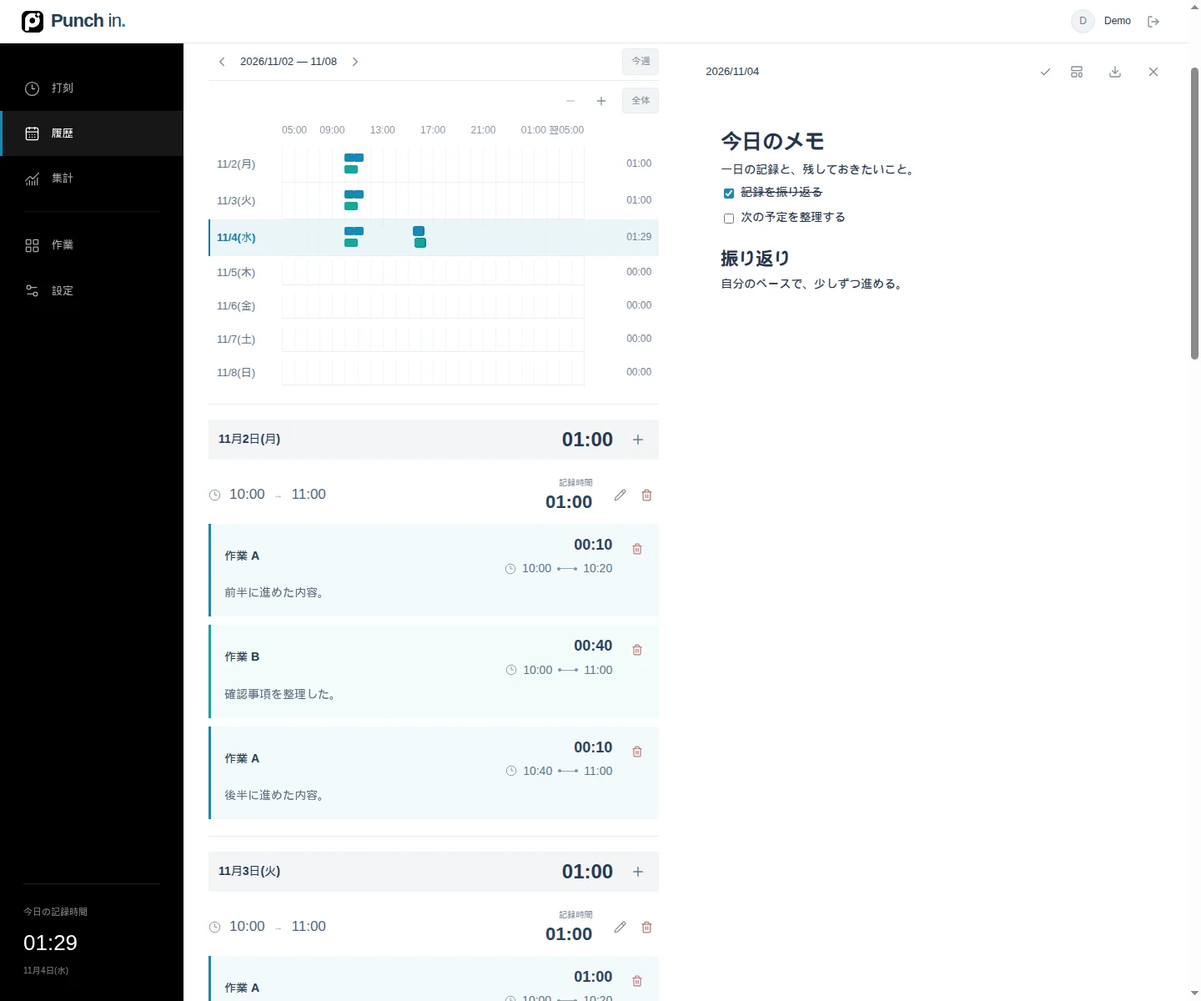
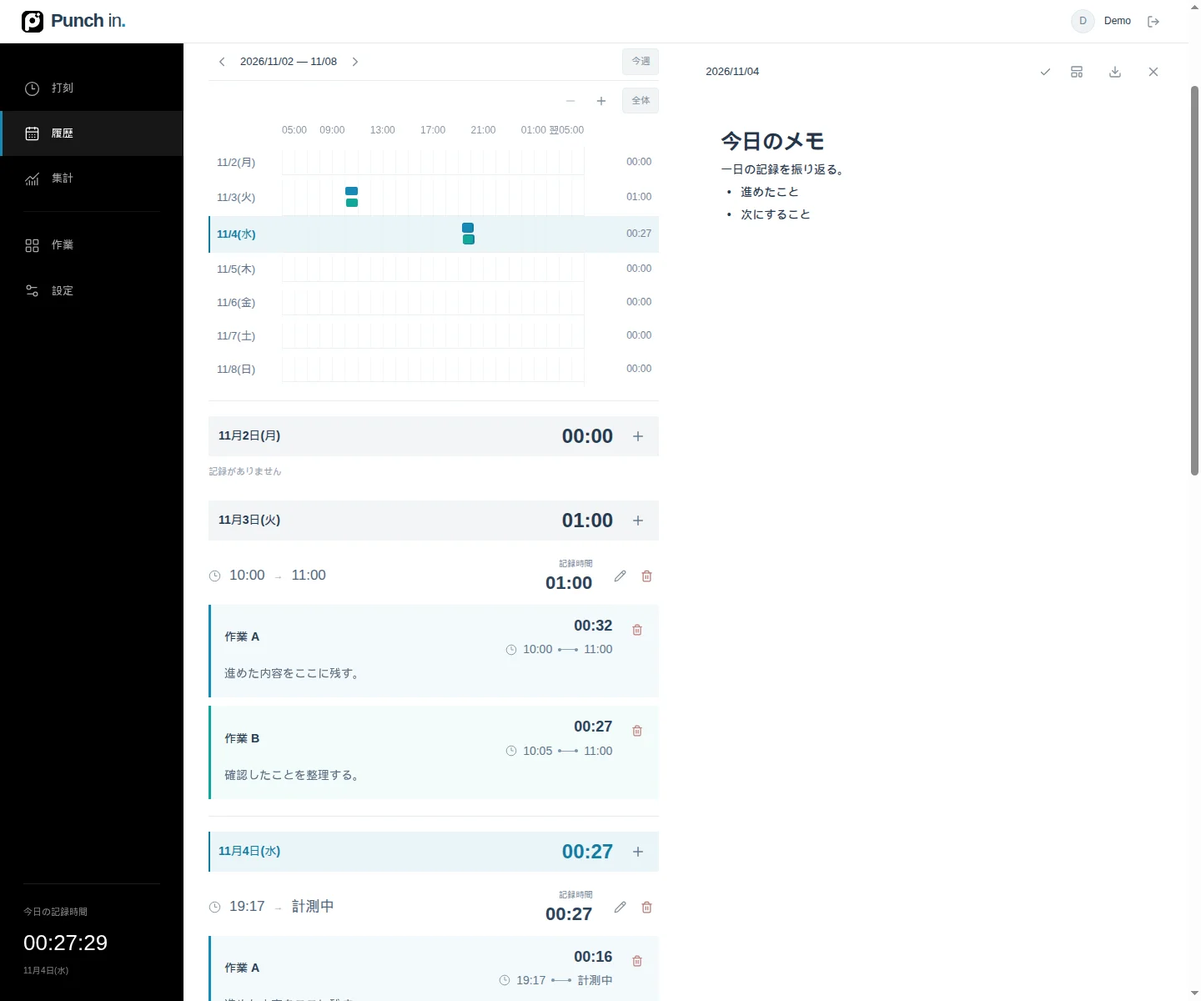
feat: 打刻画面とサイドバーに秒表示を復元

diff --git a/app/punch-app.tsx b/app/punch-app.tsx
@@ -4,7 +4,7 @@ import DurationValue from './components/time/duration-value';
 import { lazy, Suspense, useCallback, useEffect, useMemo, useRef, useState, type CSSProperties, type FormEvent, type ReactNode } from "react";
 import { Palette, Clock3, CalendarDays, ChartNoAxesCombined, Settings2, LayoutGrid, ChevronLeft, ChevronRight, ChevronUp, ChevronDown, Plus, Pencil, X, Menu, LogOut, Play, Square, Search, Download, Upload, Eye, EyeOff, Trash2, Check, LoaderCircle, Bell, ArrowRight, RefreshCw } from "lucide-react";
 import type { AppState, Backup, Category, PendingPunch, Preferences, PunchDelta, Session } from "../lib/model";
-import { businessDay, clock, contrastText, dayStartLabel, duration, fromTimeInput, hm, minuteIso, hoursMinutes, periodRange, readableDate, readableColor, shiftDay, shiftPeriod, minuteInput, wallParts, type Period } from "../lib/time";
+import { businessDay, clock, contrastText, dayStartLabel, duration, fromTimeInput, hms, hm, minuteIso, hoursMinutes, periodRange, readableDate, readableColor, shiftDay, shiftPeriod, minuteInput, wallParts, type Period } from "../lib/time";
 
 import {memberKey,currentMember,entryAllocations,categoryAllocations,members,includesCategory,allocations,creditedTime,memberRange,memoKey,readMemo,setMemo} from "../lib/work";
 import ParallelControls from "./components/records/parallel-controls";
@@ -214,19 +214,19 @@ export default function PunchApp({initial,displayName,draftScope}:{initial:AppSt
   const theme=view==="settings"?prefs:state.preferences;
   const style={"--accent":theme.accent,"--accent-ink":contrastText(theme.accent),"--accent-link":readableColor(theme.accent),"--sidebar":theme.sidebar,"--sidebar-ink":contrastText(theme.sidebar)} as CSSProperties;
 
-  function recordTable(list:Session[],showIntervals=false){return list.length?<WorkRecords showIntervals={showIntervals} sessions={list} categories={state.categories} now={now} store={memoStore} pending={pending} onEdit={s=>void editSession(s)} onDelete={requestDeleteSession}/>:<Empty/>;}
+  function recordTable(list:Session[],showIntervals=false){return list.length?<WorkRecords seconds={view==="punch"} showIntervals={showIntervals} sessions={list} categories={state.categories} now={now} store={memoStore} pending={pending} onEdit={s=>void editSession(s)} onDelete={requestDeleteSession}/>:<Empty/>;}
   async function exportRecords(){if(!await memoStore.flushAll()){setToast({text:"メモの保存を確認してから書き出してください",error:true});return;}const current=new Map(stateRef.current.sessions.map(s=>[s.id,s]));const rows=history.map(s=>current.get(s.id)??s);saveFile(csv([["日付","作業ID","作業","開始日時","終了日時","作業時間（分）","タイムゾーン","1日の開始","メモ","計測中"],...rows.flatMap(s=>members(s).map(m=>[s.businessDay,m.categoryId,category(m.categoryId)?.name??"",memberRange(s,memberKey(m)).start===null?"":minuteIso(memberRange(s,memberKey(m)).start!),memberRange(s,memberKey(m)).end===null?"":minuteIso(memberRange(s,memberKey(m)).end!),Math.floor((entryAllocations(s,now).get(memberKey(m))??0)/60000),s.timezone,dayStartLabel(s.dayStart),m.memo,m.state!=="finished"?"はい":"いいえ"]))]),`punch-in-records-${historyDay}.csv`,"text/csv;charset=utf-8");}
   function exportStats(){saveFile(csv([["期間開始","期間終了","作業ID","作業","作業時間（分）","時間","計測中を含む"],...state.categories.filter(c=>!statsFilter||c.id===statsFilter).map(c=>{const rows=selected.filter(s=>includesCategory(s,c.id));const t=rows.reduce((v,s)=>v+(allocations(s,now).get(c.id)??0),0);return[period==="all"?"全期間":from,period==="all"?"":to,c.id,c.name,Math.floor(t/60000),hm(t),rows.some(s=>s.endedAt===null)?"はい":"いいえ"]; }),[period==="all"?"全期間":from,period==="all"?"":to,"","作業時間",Math.floor(creditedTotal/60000),hm(creditedTotal),selectedRunning?"はい":"いいえ"]]),"punch-in-summary.csv","text/csv;charset=utf-8");}
   async function loadBackup(file:File){setBackup(null);setPreview(null);if(file.size>16_000_000){setToast({text:"ファイルは16MB以内にしてください",error:true});return;}try{const value=JSON.parse(await file.text()) as Backup;const result=await mutate("importPreview",{backup:value});if(result?.preview){setBackup(value);setPreview(result.preview);}}catch{setToast({text:"JSONファイルを読み込めません",error:true});}}
   return <div className={`app ${noteTarget.open?"notes-open":""}`} style={style}>
     <header className="topbar"><button ref={menuButton} className="mobile-menu icon-button" onClick={()=>menu?closeMenu():setMenu(true)} aria-label="メニュー" aria-controls="app-navigation" aria-expanded={compactNavigation&&menu}><Menu size={22}/></button><button className="brand" aria-label="打刻（ホーム）へ" onClick={()=>{go("punch");window.scrollTo({top:0,behavior:"auto"});}}><span className="brand-mark"><img src="/icons/punch-in-96.png" alt="" width={26} height={26} decoding="async"/></span><span>Punch <b>in</b><span className="brand-period">.</span></span></button><div className="account"><span className="avatar">{displayName.slice(0,1).toUpperCase()}</span><span className="account-name">{displayName}</span><a className="icon-button" href="/signout-with-chatgpt?return_to=%2F" target="_top" aria-label="ログアウト"><LogOut size={16}/></a></div></header>
     {menu&&<button className="sidebar-backdrop" aria-label="メニューを閉じる" onClick={closeMenu}/>}
-    <aside id="app-navigation" ref={sidebarRef} className={`sidebar ${menu?"open":""}`} inert={compactNavigation&&!menu} aria-hidden={compactNavigation&&!menu?true:undefined} role={compactNavigation?"dialog":undefined} aria-modal={compactNavigation&&menu?true:undefined} aria-label="メニュー"><button className="sidebar-close icon-button" onClick={closeMenu} aria-label="メニューを閉じる"><X size={20}/></button><nav>{NAV.map((n,i)=><button key={n.id} onClick={()=>go(n.id)} className={`nav-item ${view===n.id?"active":""} ${i===3?"nav-divider":""}`} aria-current={view===n.id?"page":undefined}><n.icon size={19} strokeWidth={1.6}/><span>{n.label}</span>{view===n.id&&<span className="nav-marker"/>}</button>)}</nav><div className="sidebar-total"><span>今日の記録時間</span><strong><DurationValue value={dailyTotal}/></strong><span className="sidebar-date">{readableDate(today)}</span></div><a className="sidebar-signout" href="/signout-with-chatgpt?return_to=%2F" target="_top"><LogOut size={15}/>ログアウト</a></aside>
+    <aside id="app-navigation" ref={sidebarRef} className={`sidebar ${menu?"open":""}`} inert={compactNavigation&&!menu} aria-hidden={compactNavigation&&!menu?true:undefined} role={compactNavigation?"dialog":undefined} aria-modal={compactNavigation&&menu?true:undefined} aria-label="メニュー"><button className="sidebar-close icon-button" onClick={closeMenu} aria-label="メニューを閉じる"><X size={20}/></button><nav>{NAV.map((n,i)=><button key={n.id} onClick={()=>go(n.id)} className={`nav-item ${view===n.id?"active":""} ${i===3?"nav-divider":""}`} aria-current={view===n.id?"page":undefined}><n.icon size={19} strokeWidth={1.6}/><span>{n.label}</span>{view===n.id&&<span className="nav-marker"/>}</button>)}</nav><div className="sidebar-total"><span>今日の記録時間</span><strong><DurationValue value={dailyTotal} seconds/></strong><span className="sidebar-date">{readableDate(today)}</span></div><a className="sidebar-signout" href="/signout-with-chatgpt?return_to=%2F" target="_top"><LogOut size={15}/>ログアウト</a></aside>
     <main className="main" inert={compactNavigation&&menu}><div className="page-heading"><h1>{NAV.find(n=>n.id===view)?.label}</h1>{(view==="punch"||view==="history")&&<button ref={noteButton} className={`text-button notes-toggle ${noteError?"has-error":""}`} aria-controls="daily-notes" aria-expanded={noteTarget.open} onClick={()=>noteTarget.open?closeNotes():openNotes(view==="punch"?today:visibleHistoryDay)}><Pencil size={14}/>日別メモ{noteError&&<span className="note-error-dot"/>}</button>}</div>
       <div className={`page-content ${view==="punch"?"punch-content":""}`}><div key={view} className="workspace-primary">
       {view==="punch"&&<>
         <div className="punch-tools"><span className="activity-date">{today!==wallParts(now,state.preferences.timezone).date?`${readableDate(today)}の記録`:readableDate(today)}</span><button className="text-button" onClick={()=>go("categories")}><Settings2 size={15}/>ボタンを編集</button></div>
-        <section className="punch-stage" aria-label="打刻"><div className="clock-area"><div className="full-date">{dateFormatter.format(now)}</div><div className="big-clock" aria-label={`現在時刻 ${clock(now,state.preferences.timezone)}`}><span>{clock(now,state.preferences.timezone)}</span></div><div className={`current-state ${running?"is-running":""} ${running&&members(running).every(m=>m.state!=="active")?"is-paused":""}`} style={runningCategory?{color:readableColor(runningCategory.color)}:undefined}>{running?<><span className="pulse-dot"/><span>{members(running).every(m=>m.state!=="active")?"一時停止中":members(running).filter(m=>m.state==="active").map(m=>category(m.categoryId)?.name).join("・")}</span></>:<><span className="idle-dot"/>未計測</>}</div><div className={`live-details ${running?"is-active":""}`} inert={!running} aria-hidden={!running} style={displayCategory?{color:readableColor(displayCategory.color)}:undefined}><div className="live-details-content"><span className={`running-elapsed ${timerColors.length>1?"has-multiple-colors":""}`} style={{...(timerColors.length>1?{backgroundImage:diagonalColors(timerColors)}:{color:timerColors[0]??(running?"#64748b":undefined)})}}><DurationValue value={displaySession?duration(displaySession,now):0}/></span><button className="running-memo" disabled={!running||pending} onClick={()=>{if(!running)return;if(!running.work){void editSession(running);return;}if(running.businessDay!==today){setHistoryDay(running.businessDay);setHistoryTo(running.businessDay);go("history",running.businessDay);}requestAnimationFrame(()=>requestAnimationFrame(()=>document.querySelector<HTMLElement>(`[data-record-id="${CSS.escape(running.id)}"] .inline-memo textarea`)?.focus()));}}><Pencil size={13}/>{displaySession?.work?"メモ":displaySession?.memo||"メモを追加"}</button></div></div></div>
+        <section className="punch-stage" aria-label="打刻"><div className="clock-area"><div className="full-date">{dateFormatter.format(now)}</div><div className="big-clock" aria-label={`現在時刻 ${clock(now,state.preferences.timezone,true)}`}><span>{clock(now,state.preferences.timezone)}</span><small className="clock-seconds">:{String(wallParts(now,state.preferences.timezone).second).padStart(2,"0")}</small></div><div className={`current-state ${running?"is-running":""} ${running&&members(running).every(m=>m.state!=="active")?"is-paused":""}`} style={runningCategory?{color:readableColor(runningCategory.color)}:undefined}>{running?<><span className="pulse-dot"/><span>{members(running).every(m=>m.state!=="active")?"一時停止中":members(running).filter(m=>m.state==="active").map(m=>category(m.categoryId)?.name).join("・")}</span></>:<><span className="idle-dot"/>未計測</>}</div><div className={`live-details ${running?"is-active":""}`} inert={!running} aria-hidden={!running} style={displayCategory?{color:readableColor(displayCategory.color)}:undefined}><div className="live-details-content"><span className={`running-elapsed ${timerColors.length>1?"has-multiple-colors":""}`} style={{...(timerColors.length>1?{backgroundImage:diagonalColors(timerColors)}:{color:timerColors[0]??(running?"#64748b":undefined)})}}><DurationValue value={displaySession?duration(displaySession,now):0} seconds/></span><button className="running-memo" disabled={!running||pending} onClick={()=>{if(!running)return;if(!running.work){void editSession(running);return;}if(running.businessDay!==today){setHistoryDay(running.businessDay);setHistoryTo(running.businessDay);go("history",running.businessDay);}requestAnimationFrame(()=>requestAnimationFrame(()=>document.querySelector<HTMLElement>(`[data-record-id="${CSS.escape(running.id)}"] .inline-memo textarea`)?.focus()));}}><Pencil size={13}/>{displaySession?.work?"メモ":displaySession?.memo||"メモを追加"}</button></div></div></div>
         <div className="punch-controls"><div className={`punch-buttons ${visibleCats.length===1?"single-button":""}`}>{visibleCats.map((c,index)=><button key={c.id} className={`punch-button ${memberState(c.id)==="active"?"recording":memberState(c.id)==="paused"?"paused":""}`} style={{"--punch-row":buttonPositions.wide[index].row,"--punch-column":buttonPositions.wide[index].column,"--compact-row":buttonPositions.compact[index].row,"--compact-column":buttonPositions.compact[index].column,"--category":c.color,"--category-stroke":readableColor(c.color,3),"--category-text":readableColor(c.color),"--category-ink":contrastText(c.color)} as CSSProperties} disabled={pending} onClick={()=>void mutate("punch",{categoryId:c.id},memberState(c.id)==="paused"?`${c.name}を再開しました`:(memberState(c.id)==="active"||memberState(c.id)==="paused")?`${c.name}を終了しました`:`${c.name}を開始しました`)} aria-label={`${c.name}を${memberState(c.id)==="paused"?"再開":memberState(c.id)==="active"?"終了":running?"並行追加":"開始"}`} aria-pressed={(memberState(c.id)==="active"||memberState(c.id)==="paused")} aria-busy={pendingPunch?.categoryId===c.id||undefined}><span className="punch-action">{pendingPunch?.categoryId===c.id?<LoaderCircle size={15} className="spin"/>:memberState(c.id)==="active"?<Square size={14} fill="currentColor"/>:<Play size={15}/>}</span><span>{c.name}</span>{((memberState(c.id)==="active"||memberState(c.id)==="paused")||pendingPunch?.categoryId===c.id)&&<span className="punch-running-label">{pendingPunch?.categoryId===c.id?"保存中":memberState(c.id)==="paused"?"一時停止中":"計測中"}</span>}</button>)}</div>{running&&<ParallelControls session={running} categories={state.categories} times={runningEntryTimes} pending={pending} control={(control,categoryId)=>{void mutate("work",{id:running.id,control,categoryId});}}/>}<button className="punch-add" onClick={addCategory} aria-label="作業を追加"><Plus size={23}/></button></div></section>
         {running&&runningCategory?.hidden&&!running.work&&<div className="notice">非表示の作業「{runningCategory.name}」を計測中です<button className="text-button" disabled={pending} onClick={()=>void mutate("punch",{categoryId:runningCategory.id},"計測を終了しました")}>終了する</button></div>}
       </>}
@@ -254,7 +254,7 @@ export default function PunchApp({initial,displayName,draftScope}:{initial:AppSt
       </form><section className="settings-section data-section"><h2>データの引き継ぎ</h2><div className="data-actions"><button className="outline-button" disabled={exporting} onClick={()=>void exportBackup()}>{exporting?<LoaderCircle size={17} className="spin"/>:<Download size={17}/>}すべて書き出す（JSON）</button><label className={`outline-button ${pending?"disabled":""}`}><Upload size={17}/>取り込む（JSON）<input className="sr-only" type="file" accept=".json,application/json" disabled={pending} onChange={e=>{const f=e.target.files?.[0];if(f)void loadBackup(f);e.target.value="";}}/></label></div><p className="field-note">記録・日別メモ・テンプレート・作業・個人設定を含みます。</p>{preview&&backup&&<div className="import-preview"><h3>取り込み内容</h3><dl><div><dt>新しい作業</dt><dd>{preview.categories}種類</dd></div><div><dt>新しい記録</dt><dd>{preview.sessions}件</dd></div><div><dt>新しい日別メモ</dt><dd>{preview.dailyNotes}日分</dd></div><div><dt>既存のためスキップ</dt><dd>作業 {preview.skippedCategories}種類 / 記録 {preview.skippedSessions}件 / メモ {preview.skippedDailyNotes}日分</dd></div></dl>{preview.running&&<p className="field-note">計測中の記録も復元されます。</p>}<label className="checkbox-label"><input type="checkbox" checked={includePrefs} onChange={e=>setIncludePrefs(e.target.checked)}/>個人設定も取り込む</label><div className="modal-actions"><button className="outline-button" onClick={()=>{setBackup(null);setPreview(null);}}>キャンセル</button><button className="primary-button" disabled={pending} onClick={async()=>{const r=await mutate("import",{backup,includePreferences:includePrefs},"取り込みが完了しました");if(r?.state){notesHandle.current?.refresh();setPrefs(r.state.preferences);setBackup(null);setPreview(null);}}}>取り込む</button></div></div>}</section></div>}
       </div>
       {notesActivated&&<Suspense fallback={null}><NotesDock scope={draftScope} target={noteTarget} close={closeNotes} ready={notesReady} reportError={setNoteError}/></Suspense>}
-      {view==="punch"&&<section className="today-records"><div className="section-heading"><h2>今日の記録</h2><strong className="today-records-total tabular" aria-label={`今日の記録時間 ${hoursMinutes(dailyTotal)}`}><DurationValue value={dailyTotal}/></strong><button className="text-button" onClick={()=>{setHistoryDay(today);setHistoryTo(today);go("history");}}>履歴を見る<ArrowRight size={15}/></button></div>{recordTable(daily.slice(0,5))}{daily.length>5&&<button className="more-button" onClick={()=>{setHistoryDay(today);setHistoryTo(today);go("history");}}>すべての記録を見る</button>}</section>}
+      {view==="punch"&&<section className="today-records"><div className="section-heading"><h2>今日の記録</h2><strong className="today-records-total tabular" aria-label={`今日の記録時間 ${hms(dailyTotal)}`}><DurationValue value={dailyTotal} seconds/></strong><button className="text-button" onClick={()=>{setHistoryDay(today);setHistoryTo(today);go("history");}}>履歴を見る<ArrowRight size={15}/></button></div>{recordTable(daily.slice(0,5))}{daily.length>5&&<button className="more-button" onClick={()=>{setHistoryDay(today);setHistoryTo(today);go("history");}}>すべての記録を見る</button>}</section>}
       {view==="history"&&<HistoryFeed sessions={history} timelineSessions={timelineSessions} categoryFilter={filter} dayStart={state.preferences.dayStart} timezone={state.preferences.timezone} categories={state.categories} addRecord={addSession} anchor={historyPage} focusRequest={historyFocus} focusMode={historyLanding} now={now} range={historyRange?[historyDay,historyTo]:undefined} onToday={()=>{setHistoryLanding("overview");setHistoryRange(false);setHistoryPage(today);setHistoryFocus(v=>v+1);}} openedDay={noteTarget.open?noteTarget.day:undefined} onActiveDay={onHistoryActive} onPage={day=>{setHistoryLanding("overview");setHistoryPage(day);}} openNotes={openNotes} onEdit={editSession} renderRecords={rows=>recordTable(rows,true)}/>}
       </div>
     </main>

diff --git a/app/components/records/work-records.tsx b/app/components/records/work-records.tsx
@@ -4,12 +4,12 @@ import {useMemo,useState,type CSSProperties} from 'react';
 import {Clock3,ChevronRight,Pencil,Trash2} from 'lucide-react';
 import type {Category,Session} from '../../../lib/model';
 import {memberKey,members,memoKey,entryAllocations,memberRange,memberIntervals} from '../../../lib/work';
-import {hoursMinutes,clock,duration,minuteInput,wallParts} from '../../../lib/time';
+import {hoursMinutes,hms,clock,duration,minuteInput,wallParts} from '../../../lib/time';
 import type {SessionMemosStore} from '../../../lib/session-memos-store';
 import MemoCell from './memo-cell';
-type Props={sessions:Session[];categories:Category[];now:number;store:SessionMemosStore;pending:boolean;showIntervals?:boolean;onEdit(s:Session):void;onDelete(s:Session,memberId?:string):void};
-function endLabel(s:Session){return s.endedAt===null?(s.work?.members.every(m=>m.state!=='active')?'一時停止中':'計測中'):`${wallParts(s.startedAt,s.timezone).date!==wallParts(s.endedAt,s.timezone).date?'翌日以降 ':''}${clock(s.endedAt,s.timezone)}`;}
-export default function WorkRecords({sessions,categories,now,store,pending,showIntervals=false,onEdit,onDelete}:Props){
+type Props={sessions:Session[];categories:Category[];now:number;store:SessionMemosStore;pending:boolean;showIntervals?:boolean;seconds?:boolean;onEdit(s:Session):void;onDelete(s:Session,memberId?:string):void};
+function endLabel(s:Session,seconds:boolean){return s.endedAt===null?(s.work?.members.every(m=>m.state!=='active')?'一時停止中':'計測中'):`${wallParts(s.startedAt,s.timezone).date!==wallParts(s.endedAt,s.timezone).date?'翌日以降 ':''}${clock(s.endedAt,s.timezone,seconds)}`;}
+export default function WorkRecords({sessions,categories,now,store,pending,showIntervals=false,seconds=false,onEdit,onDelete}:Props){
   const [limits,setLimits]=useState<Record<string,number>>({});
   const categoryMap=useMemo(()=>new Map(categories.map(c=>[c.id,c])),[categories]);
   return <div className="work-records record-list">{sessions.map(s=>{
@@ -17,15 +17,15 @@ export default function WorkRecords({sessions,categories,now,store,pending,showI
     const envelope=items.length>1||(times.get(memberKey(items[0]))??0)!==real;
     const actions=<div className="record-actions"><button className="icon-button" aria-label="記録を編集" disabled={pending||isPending} onClick={()=>onEdit(s)}><Pencil size={15}/></button><button className="icon-button danger" aria-label="記録を削除" disabled={pending||isPending} onClick={()=>onDelete(s)}><Trash2 size={15}/></button></div>;
     return <article className={`work-record ${envelope?'has-record-envelope':'is-single-record'}`} data-record-id={s.id} key={s.id}>
-      {envelope&&<header className="record-envelope"><div className="record-range tabular"><Clock3 className="time-range-icon" size={15} strokeWidth={1.6} aria-hidden="true"/><time>{clock(s.startedAt,s.timezone)}</time><span aria-hidden="true">→</span><time>{endLabel(s)}</time></div><div className="record-total"><small>記録時間</small><strong><DurationValue value={real}/></strong></div>{actions}</header>}
+      {envelope&&<header className="record-envelope"><div className="record-range tabular"><Clock3 className="time-range-icon" size={15} strokeWidth={1.6} aria-hidden="true"/><time>{clock(s.startedAt,s.timezone,seconds)}</time><span aria-hidden="true">→</span><time>{endLabel(s,seconds)}</time></div><div className="record-total"><small>記録時間</small><strong><DurationValue value={real} seconds={seconds}/></strong></div>{actions}</header>}
       {items.length>(limits[s.id]??50)&&<button className="text-button" onClick={()=>setLimits(v=>({...v,[s.id]:(v[s.id]??50)+50}))}>以前の記録を表示（{items.length-(limits[s.id]??50)}件）</button>}
       {items.slice(-(limits[s.id]??50)).map(m=>{
         const key=memberKey(m),category=categoryMap.get(m.categoryId),range=memberRange(s,key),periods=memberIntervals(s,key),name=category?.name??'削除済み';
 
         return <section data-member-id={key} className={`work-record-member record-member ${m.state==='paused'?'is-paused':''}`} key={key} style={{'--record-color':category?.color??'#64748b'} as CSSProperties} aria-label={name}>
-          <div className="record-member-heading"><span className="record-member-name">{name}</span><div className="record-member-summary"><strong className="record-member-time" title="作業時間" aria-label={`作業時間 ${hoursMinutes(times.get(key)??0)}`}><DurationValue value={times.get(key)??0}/></strong><div className="record-member-period tabular"><Clock3 className="time-range-icon" size={14} strokeWidth={1.6} aria-hidden="true"/><time title={range.start===null?undefined:minuteInput(range.start,s.timezone).replace('T',' ')} aria-label={`開始 ${range.start===null?'不明':clock(range.start,s.timezone)}`}>{range.start===null?'—':clock(range.start,s.timezone)}</time><span className="record-time-track" aria-hidden="true"/><time title={range.end===null?undefined:minuteInput(range.end,s.timezone).replace('T',' ')} aria-label={m.state==='finished'?`終了 ${range.end===null?'不明':clock(range.end,s.timezone)}`:m.state==='paused'?'一時停止中':'計測中'}>{m.state==='finished'?(range.end===null?'—':`${range.start!==null&&wallParts(range.start,s.timezone).date!==wallParts(range.end,s.timezone).date?'翌日以降 ':''}${clock(range.end,s.timezone)}`):m.state==='paused'?'一時停止中':'計測中'}</time></div></div>{envelope?(items.length>1&&<button className="icon-button danger" aria-label={`${name}だけ削除`} disabled={isPending||pending} onClick={()=>onDelete(s,key)}><Trash2 size={14}/></button>):actions}</div>
+          <div className="record-member-heading"><span className="record-member-name">{name}</span><div className="record-member-summary"><strong className="record-member-time" title="作業時間" aria-label={`作業時間 ${seconds?hms(times.get(key)??0):hoursMinutes(times.get(key)??0)}`}><DurationValue value={times.get(key)??0} seconds={seconds}/></strong><div className="record-member-period tabular"><Clock3 className="time-range-icon" size={14} strokeWidth={1.6} aria-hidden="true"/><time title={range.start===null?undefined:minuteInput(range.start,s.timezone).replace('T',' ')} aria-label={`開始 ${range.start===null?'不明':clock(range.start,s.timezone,seconds)}`}>{range.start===null?'—':clock(range.start,s.timezone,seconds)}</time><span className="record-time-track" aria-hidden="true"/><time title={range.end===null?undefined:minuteInput(range.end,s.timezone).replace('T',' ')} aria-label={m.state==='finished'?`終了 ${range.end===null?'不明':clock(range.end,s.timezone,seconds)}`:m.state==='paused'?'一時停止中':'計測中'}>{m.state==='finished'?(range.end===null?'—':`${range.start!==null&&wallParts(range.start,s.timezone).date!==wallParts(range.end,s.timezone).date?'翌日以降 ':''}${clock(range.end,s.timezone,seconds)}`):m.state==='paused'?'一時停止中':'計測中'}</time></div></div>{envelope?(items.length>1&&<button className="icon-button danger" aria-label={`${name}だけ削除`} disabled={isPending||pending} onClick={()=>onDelete(s,key)}><Trash2 size={14}/></button>):actions}</div>
 
-          <MemoCell id={memoKey(s,key)} target={s.work?{id:s.id,categoryId:m.categoryId,...(m.id?{memberId:m.id}:{})}:undefined} value={m.memo} label={`${name} ${range.start===null?'':clock(range.start,s.timezone)}のメモ`} store={store} disabled={isPending||pending}/>
+          <MemoCell id={memoKey(s,key)} target={s.work?{id:s.id,categoryId:m.categoryId,...(m.id?{memberId:m.id}:{})}:undefined} value={m.memo} label={`${name} ${range.start===null?'':clock(range.start,s.timezone,seconds)}のメモ`} store={store} disabled={isPending||pending}/>
           {showIntervals&&periods.length>1&&<details className="record-intervals"><summary><ChevronRight size={14}/><span>計測区間</span><span className="record-interval-count">{periods.length}</span></summary><div className="record-interval-list">{periods.map((p,i)=><div className="record-interval tabular" key={i}><time><Clock3 className="time-range-icon" size={13} strokeWidth={1.6} aria-hidden="true"/>{clock(p.start,s.timezone)}</time><span aria-hidden="true">→</span><time>{p.end===null?'計測中':clock(p.end,s.timezone)}</time><strong><DurationValue value={Math.max(0,(p.end??now)-p.start)}/></strong></div>)}</div></details>}
         </section>;
       })}

diff --git a/app/components/records/parallel-controls.tsx b/app/components/records/parallel-controls.tsx
@@ -24,7 +24,7 @@ export default memo(function ParallelControls({session, categories, times, pendi
       const paused = member.state === "paused";
       return <div className="active-work" key={memberKey(member)}>
         <span className="dot" style={{background: category?.color}}/>
-        <span>{category?.name}</span><strong><DurationValue value={times.get(memberKey(member)) ?? 0}/></strong>
+        <span>{category?.name}</span><strong><DurationValue value={times.get(memberKey(member)) ?? 0} seconds/></strong>
         <button className="icon-button" disabled={pending} aria-label={`${category?.name}を${paused ? "再開" : "一時停止"}`} onClick={() => control(paused ? "resume" : "pause", member.categoryId)}>{paused ? <Play size={16}/> : <Pause size={16}/>}</button>
         <button className="icon-button" disabled={pending} aria-label={`${category?.name}を終了`} onClick={() => control("finish", member.categoryId)}><Square size={14}/></button>
       </div>;

diff --git a/app/components/time/duration-value.tsx b/app/components/time/duration-value.tsx
@@ -1,5 +1,5 @@
-import {hm} from '../../../lib/time';
-/** Keep elapsed time in hours:minutes; the parent controls its visual emphasis. */
-export default function DurationValue({value}:{value:number}){
-  return <span className="duration-value">{hm(value)}</span>;
+import {hm,hms} from '../../../lib/time';
+/** Live clocks can show seconds while records and reports default to minutes. */
+export default function DurationValue({value,seconds=false}:{value:number;seconds?:boolean}){
+  return <span className="duration-value">{seconds?hms(value):hm(value)}</span>;
 }

diff --git a/docs/SPEC.md b/docs/SPEC.md
@@ -214,3 +214,10 @@
 - 時間の主表示はDurationValueを共用し「01:30」の形式へ統一する。時計・開始終了もHH:mmだが、記録一覧・計測区間・配分編集・集計ホバーの開始終了には小さな時計アイコンを添えて見分けられるようにする。
 - 経過時間・日合計・各作業の文字サイズの強弱は維持する。タイムラインの時刻目盛りにはアイコンを追加しない。
 - CSVの文字列の時間列はHH:mm、数値の分数列とDB/API/JSONの精度は維持する。読み上げラベル・通知などの文章には時間と分の表記を使う。
+
+
+## 打刻画面とサイドバーの秒表示（2026-11-04）
+
+- 打刻画面の現在時刻、経過時間、並行中の作業時間、今日の記録の合計と各作業の時間・開始終了を秒まで表示する。現在時刻の秒は少し小さくし、狭い画面にも収める。
+- サイドバーの今日の記録時間もHH:mm:ssにする。履歴・集計・タイムライン・日時入力・CSVは従来の分単位を維持する。
+- DurationValueとWorkRecordsのsecondsプロパティで表示精度を選ぶ。初期値はfalseとし、打刻画面から明示的に指定する。DB・API・JSONの精度や保存処理は変更しない。

diff --git a/docs/VALIDATION.md b/docs/VALIDATION.md
@@ -143,3 +143,10 @@ punch-in-icon-v2.pngを元に、ロゴの形を保持して余白を整えたPNG
 - 型チェック・既存155件の単体テスト・Sites用ビルドが成功。
 - PC1440pxと狭い320pxで、時間の主表示がHH:mmに統一されること、各作業の開始終了に時計アイコンが付くこと、ページと記録カードに横はみ出しがないことを確認。
 - タイムラインの目盛りに時計アイコンを追加せず、目盛りと日付行が重ならないことを再確認。時計は装飾アイコンとし、操作や読み上げラベルを増やさない。
+
+## 打刻画面・サイドバーの秒表示（2026-11-04）
+
+- 型チェック・既存155件の単体テスト・Sites用ビルドが成功。
+- 新規のローカル検証ユーザーで実際に開始し、経過時間・現在時刻・サイドバーが毎秒進むことを確認。開始直後の経過時間は00:00:02から00:00:14へ進んだ。検証用の計測は終了した。
+- 打刻画面の今日の記録・並行中の作業も秒表示となり、履歴・集計の主領域はHH:mmを維持することを確認。
+- PC1440pxと狭い320pxで、現在時刻の秒と記録カードに横はみ出しなし。画像はローカルの架空ユーザーDemoで更新。

diff --git a/docs/SECURITY-REVIEW.md b/docs/SECURITY-REVIEW.md
@@ -29,3 +29,5 @@
 時間・分の表記統一でも、公開するソースとGit履歴を確認する。README画像はローカルの架空ユーザーDemoで撮影し、個人データ・認証情報・ローカルDBを含めない。
 
 HH:mmと時計アイコンの変更でも、公開対象のソースと履歴をスキャンする。画像にはローカルの架空ユーザーDemoだけを使用し、認証情報・個人の記録・DBを含めない。
+
+打刻画面とサイドバーの秒表示復元でも、公開するソースとGit履歴を確認する。実際の打刻確認と画像撮影にはローカルの検証ユーザーのみを使用し、本番の記録・認証情報・DBを公開対象に含めない。

diff --git a/docs/HANDOVER.md b/docs/HANDOVER.md
@@ -106,3 +106,5 @@
 経過時間と集計の表示はapp/components/time/duration-value.tsxへ統一する。親の数字サイズを継承し、単位のみ小さくする。文字列が必要なCSV・aria-label・titleにはhoursMinutesを使う。時刻のclockと区別する。
 
 DurationValueは共通のhm関数でHH:mmへ整形する。開始・終了の範囲にはClock3を添える。タイムラインの目盛りには追加しない。
+
+打刻画面とサイドバーはDurationValueのsecondsを指定して秒表示にする。WorkRecordsも打刻画面でだけsecondsを有効にし、履歴・集計の初期値は分単位のまま。

diff --git a/docs/images/README.md b/docs/images/README.md
@@ -17,3 +17,5 @@
 最新画像は所要時間をHH:mmとし、記録の開始終了に時計アイコンを添えた画面。
 
 最新の画像では所要時間をHH:mmで表示し、開始・終了の範囲に時計アイコンを付けている。
+
+打刻画面とサイドバーは秒表示、履歴と集計は分表示の最新画面を掲載する。
